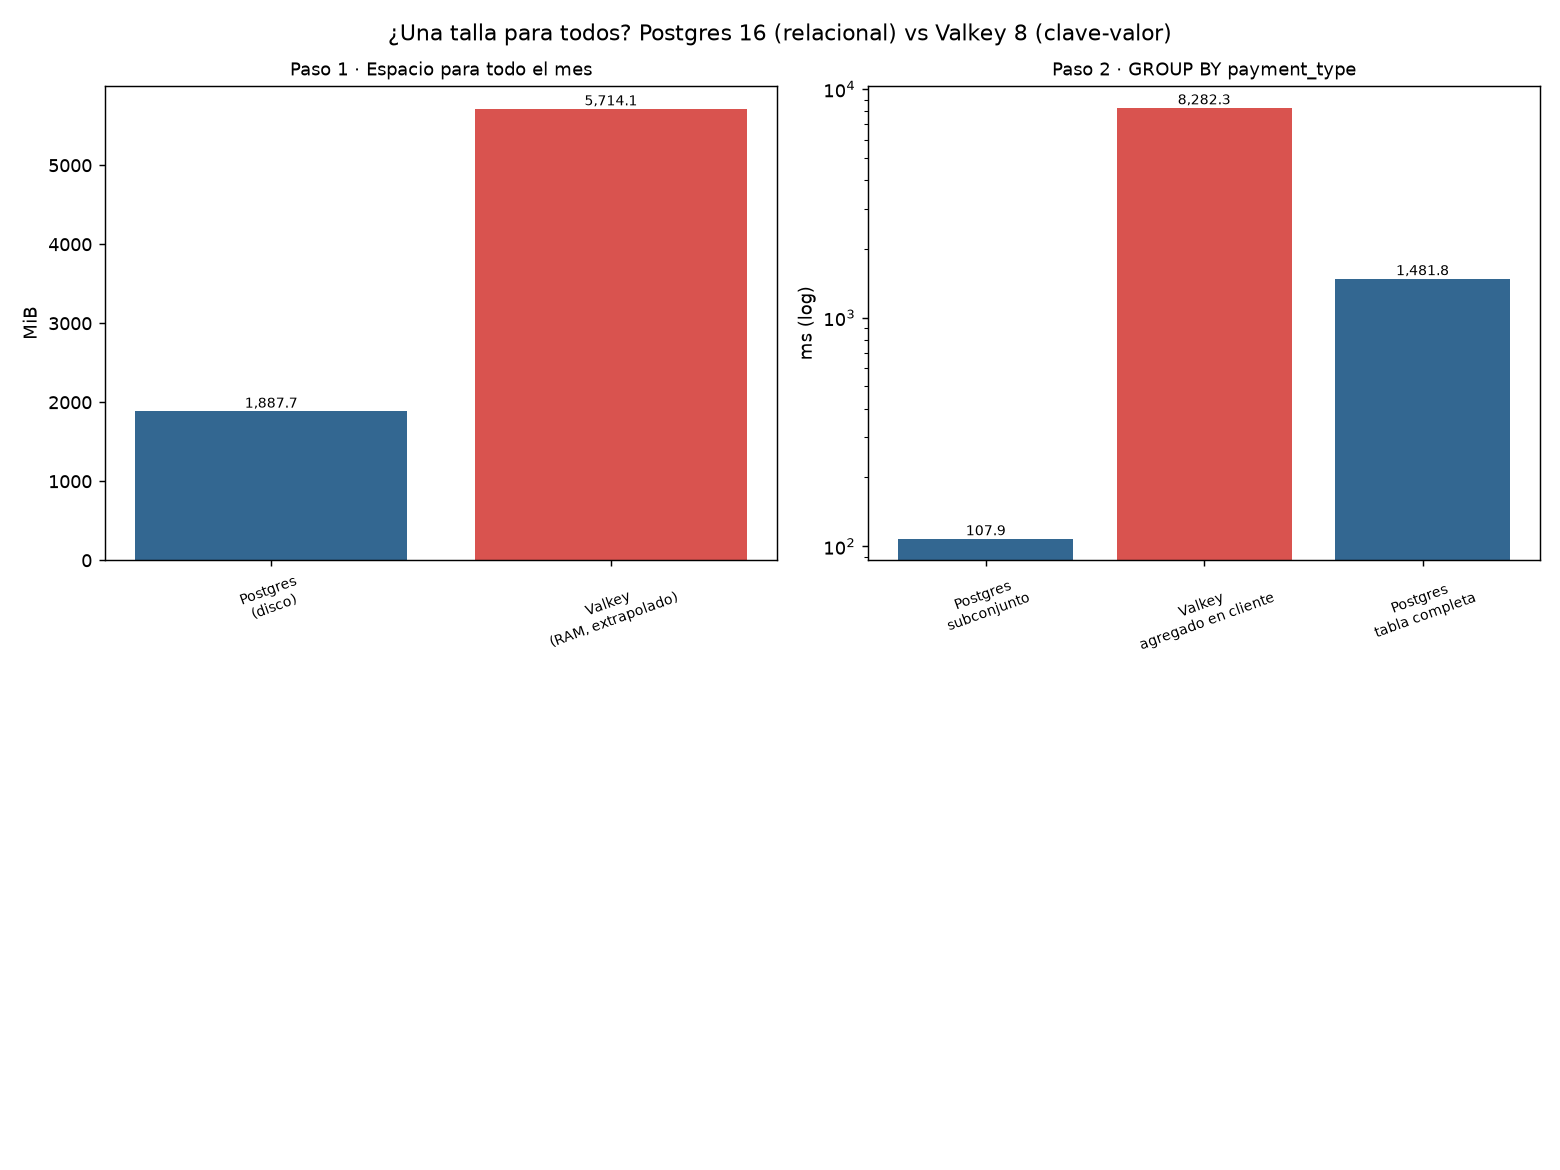
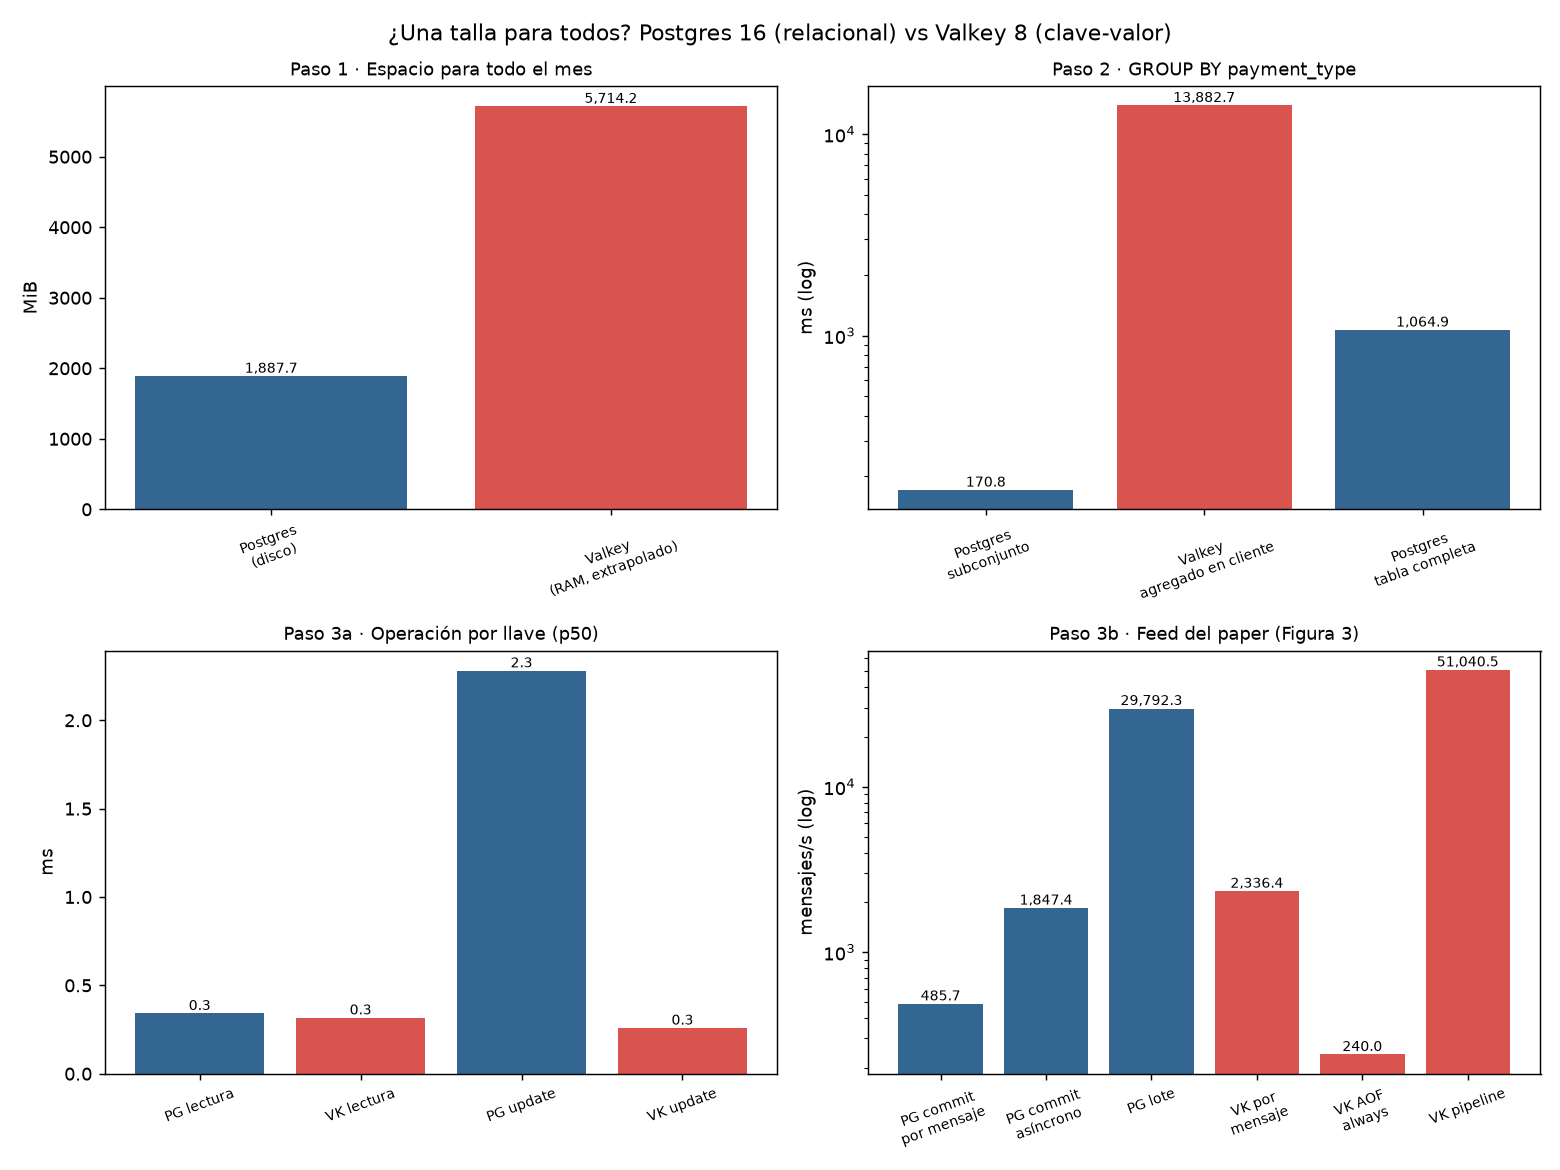
edit: graficas.png y tabla.md regeneradas con los tres pasos.

diff --git a/labs/lab2-one-size/evidence/tabla.md b/labs/lab2-one-size/evidence/tabla.md
@@ -5,17 +5,33 @@
 | 1-carga | postgres | disco_tabla | 1,653.562 | MiB |
 | 1-carga | postgres | disco_total | 1,887.703 | MiB |
 | 1-carga | postgres | filas | 10,906,858.000 | filas |
-| 1-carga | postgres | filas_por_s | 342,449.200 | filas/s |
-| 1-carga | postgres | tiempo_copy | 31.850 | s |
-| 1-carga | postgres | tiempo_indice_pk | 3.668 | s |
-| 1-carga | valkey | bytes_por_fila | 549.348 | B/fila |
+| 1-carga | postgres | filas_por_s | 165,323.443 | filas/s |
+| 1-carga | postgres | tiempo_copy | 65.973 | s |
+| 1-carga | postgres | tiempo_indice_pk | 9.982 | s |
+| 1-carga | valkey | bytes_por_fila | 549.356 | B/fila |
 | 1-carga | valkey | filas | 1,000,000.000 | filas |
-| 1-carga | valkey | filas_por_s | 28,785.809 | filas/s |
-| 1-carga | valkey | ram_extrapolada_total | 5,714.098 | MiB |
-| 1-carga | valkey | ram_usada | 523.900 | MiB |
-| 1-carga | valkey | tiempo_carga | 34.739 | s |
-| 2-olap | postgres | explain_execution_time | 1,615.569 | ms |
-| 2-olap | postgres | mediana_completa | 1,481.821 | ms |
-| 2-olap | postgres | mediana_subconjunto | 107.858 | ms |
-| 2-olap | postgres | pregunta_nueva | 1,658.573 | ms |
-| 2-olap | valkey | agregado_en_cliente | 8,282.335 | ms |
+| 1-carga | valkey | filas_por_s | 19,140.676 | filas/s |
+| 1-carga | valkey | ram_extrapolada_total | 5,714.171 | MiB |
+| 1-carga | valkey | ram_usada | 523.906 | MiB |
+| 1-carga | valkey | tiempo_carga | 52.245 | s |
+| 2-olap | postgres | explain_execution_time | 1,445.133 | ms |
+| 2-olap | postgres | mediana_completa | 1,064.854 | ms |
+| 2-olap | postgres | mediana_subconjunto | 170.836 | ms |
+| 2-olap | postgres | pregunta_nueva | 1,329.447 | ms |
+| 2-olap | valkey | agregado_en_cliente | 13,882.670 | ms |
+| 3a-puntual | postgres | lectura_por_llave_p50 | 0.341 | ms |
+| 3a-puntual | postgres | update_por_llave_p50 | 2.280 | ms |
+| 3a-puntual | valkey | lectura_por_llave_p50 | 0.316 | ms |
+| 3a-puntual | valkey | update_por_llave_p50 | 0.258 | ms |
+| 3b-feed | postgres_commit_asincrono | leer_respuesta | 0.566 | ms |
+| 3b-feed | postgres_commit_asincrono | mensajes_por_s | 1,847.409 | msg/s |
+| 3b-feed | postgres_commit_por_mensaje | leer_respuesta | 0.921 | ms |
+| 3b-feed | postgres_commit_por_mensaje | mensajes_por_s | 485.707 | msg/s |
+| 3b-feed | postgres_lote | leer_respuesta | 1.166 | ms |
+| 3b-feed | postgres_lote | mensajes_por_s | 29,792.325 | msg/s |
+| 3b-feed | valkey_aof_always | leer_respuesta | 0.780 | ms |
+| 3b-feed | valkey_aof_always | mensajes_por_s | 239.968 | msg/s |
+| 3b-feed | valkey_pipeline | leer_respuesta | 0.895 | ms |
+| 3b-feed | valkey_pipeline | mensajes_por_s | 51,040.470 | msg/s |
+| 3b-feed | valkey_por_mensaje | leer_respuesta | 0.664 | ms |
+| 3b-feed | valkey_por_mensaje | mensajes_por_s | 2,336.417 | msg/s |
